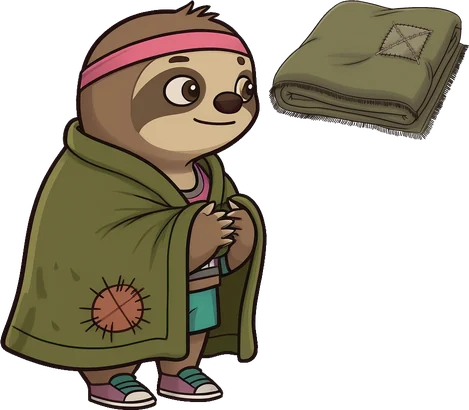
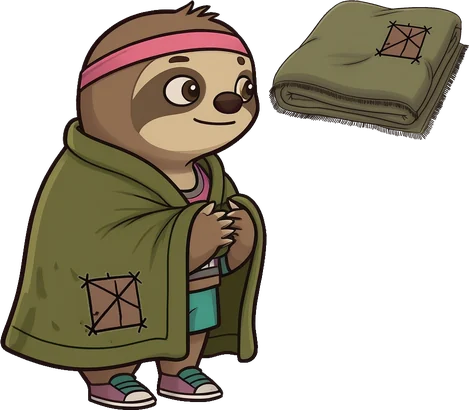
WIP Meeca's stage art: one darned patch on both blankets, soldier eye-stripe edit spec
Claude-Session: https://claude.ai/code/session_019iachLiuwNTAZUBSJWUmR3

Changed region(s): [[0.1493, 0.6439, 0.3284, 0.8488], [0.806, 0.0585, 0.9254, 0.1756]]

diff --git a/tools/art/w5/pack_blanket.py b/tools/art/w5/pack_blanket.py
@@ -2,7 +2,12 @@
 patch (folded, a prop), and Meeca with it round her shoulders, from model-free on-model edits (tools/art/w5/make_pell_specs.py).
 Writes src/assets/characters/meeca-blanket.webp + src/game/meecaBlanketData.ts. Not used by any scene yet.
 
-    python3 -I tools/art/w5/pack_blanket.py <blanket edit.png> <meeca edit.png>
+    python3 -I tools/art/w5/pack_blanket.py <blanket edit.png> <meeca edit.png> [<pell offer edit.png> '<json fix>' <work dir>]
+
+The fix gives both blankets the one patch on Pell's blanket in his offer edit (the edits drew three different patches): the edit's own
+patch is painted out and Pell's square brown patch with its crooked X stitches is warped over the spot.
+  {"src_box": [x0, y0, x1, y1], "src_quad": [4 corners of Pell's patch], "prop_quad": [4 corners of the prop's patch], "prop_grow": px,
+   "meeca_disc": [cx, cy, r, y max], "meeca_side": px, "meeca_deg": deg}   (picture px of each edit, corners clockwise from top left)
 
 Each picture is keyed off its own background (w5lib.sheet_mask, as pack_poses.py does), its ground shadow cut (w5gpu.clean_start's
 rule, done here on the cut-out: a dark neutral fringe at the bottom), and sized: Meeca to her standard sheet's standing height
@@ -48,6 +53,97 @@ def cut(path):
     return Image.fromarray(np.dstack([a[y0:y1, x0:x1], alpha[y0:y1, x0:x1] * 255]).astype(np.uint8), 'RGBA')
 
 
+def persp(dst, src):
+    """PIL PERSPECTIVE coefficients mapping output points dst[i] to input points src[i] (four of each)"""
+    A, b = [], []
+    for (x, y), (u, v) in zip(dst, src):
+        A += [[x, y, 1, 0, 0, 0, -u * x, -u * y], [0, 0, 0, x, y, 1, -v * x, -v * y]]
+        b += [u, v]
+    return np.linalg.solve(np.array(A, float), np.array(b, float))
+
+
+def inpaint(a, region, iters=400):
+    """fill region with the colours around it, smoothly (repeated averaging of the four neighbours)"""
+    ys, xs = np.nonzero(region)
+    y0, y1, x0, x1 = max(0, ys.min() - 2), ys.max() + 3, max(0, xs.min() - 2), xs.max() + 3
+    sub, m = a[y0:y1, x0:x1].copy(), region[y0:y1, x0:x1]
+    ring = ndimage.binary_dilation(m, iterations=3) & ~m
+    sub[m] = sub[ring].mean(0)
+    for _ in range(iters):
+        avg = (np.roll(sub, 1, 0) + np.roll(sub, -1, 0) + np.roll(sub, 1, 1) + np.roll(sub, -1, 1)) / 4
+        sub[m] = avg[m]
+    a[y0:y1, x0:x1] = sub
+
+
+def pell_patch(path, box, quad):
+    """the darned patch on Pell's blanket in his offer edit: the brown square, its outline and its crooked stitches (everything in box
+    that is not the blanket's olive), as RGBA, with its four corners (quad, picture px) to warp it by"""
+    a = np.asarray(Image.open(path).convert('RGB')).astype(np.float32)
+    x0, y0, x1, y1 = box
+    sub = a[y0:y1, x0:x1]
+    edge = np.concatenate([sub[:3].reshape(-1, 3), sub[-3:].reshape(-1, 3), sub[:, :3].reshape(-1, 3), sub[:, -3:].reshape(-1, 3)])
+    olive = np.median(edge, 0)
+    m = np.sqrt(((sub - olive) ** 2).sum(-1)) > 28
+    lab, n = ndimage.label(m)
+    sizes = ndimage.sum(m, lab, range(1, n + 1))
+    m = np.isin(lab, 1 + np.flatnonzero(sizes > sizes.max() * 0.01))
+    al = ndimage.gaussian_filter(ndimage.binary_dilation(m, iterations=1).astype(float), 0.7)
+    return Image.fromarray(np.dstack([sub, al * 255]).clip(0, 255).astype(np.uint8), 'RGBA'), [(u - x0, v - y0) for u, v in quad]
+
+
+def repatch(path, region, quad, patch):
+    """paint out the edit's own patch (region: a function of the picture array giving the pixels to fill) and lay Pell's patch over the
+    spot, warped onto quad (its four corners, picture px, clockwise from top left)"""
+    im = Image.open(path).convert('RGB')
+    a = np.asarray(im).astype(np.float32)
+    inpaint(a, region(a))
+    base = Image.fromarray(a.clip(0, 255).astype(np.uint8)).convert('RGBA')
+    p, src = patch
+    warped = p.transform(base.size, Image.PERSPECTIVE, tuple(persp(quad, src)), Image.BICUBIC)
+    base.alpha_composite(warped)
+    return base.convert('RGB')
+
+
+def disc_region(cx, cy, r, ymax):
+    """Meeca's take: a round orange patch with stitches sticking out of it, above the blanket's hem"""
+    def f(a):
+        yy, xx = np.mgrid[0:a.shape[0], 0:a.shape[1]]
+        near = ((xx - cx) ** 2 + (yy - cy) ** 2 < r * r) & (yy < ymax)
+        lum = a.mean(-1)
+        hit = near & (((a[..., 0] - a[..., 1]) > 30) | (lum < 100))
+        return ndimage.binary_dilation(hit, iterations=4) & near
+    return f
+
+
+def quad_region(quad, grow):
+    """the prop's take: the stitched patch inside quad, its stitches and thread a little past it (grow px)"""
+    def f(a):
+        from PIL import ImageDraw
+        mk = Image.new('L', (a.shape[1], a.shape[0]), 0)
+        ImageDraw.Draw(mk).polygon([tuple(q) for q in quad], fill=255)
+        return ndimage.binary_dilation(np.asarray(mk) > 0, iterations=grow)
+    return f
+
+
+def square(cx, cy, side, deg):
+    t = np.radians(deg)
+    c, s = np.cos(t), np.sin(t)
+    return [(cx + c * dx - s * dy, cy + s * dx + c * dy) for dx, dy in ((-side / 2, -side / 2), (side / 2, -side / 2), (side / 2, side / 2), (-side / 2, side / 2))]
+
+
+# one patch on both blankets: the brown square with crooked X stitches from Pell's offer (picture px of each edit; 2026-10-26 takes:
+# w5p-offer-1, w5p-blanket-1, w5m-blanket-3)
+FIX = json.loads(sys.argv[4]) if len(sys.argv) > 4 else None
+if FIX:
+    patch = pell_patch(sys.argv[3], FIX['src_box'], FIX['src_quad'])
+    pb = FIX['prop_quad']
+    Path('/tmp').exists()
+    fixed_b = repatch(sys.argv[1], quad_region(pb, FIX.get('prop_grow', 14)), pb, patch)
+    cx, cy, r, ymax = FIX['meeca_disc']
+    fixed_m = repatch(sys.argv[2], disc_region(cx, cy, r, ymax), square(cx, cy, FIX['meeca_side'], FIX.get('meeca_deg', -6)), patch)
+    tmp = Path(sys.argv[5] if len(sys.argv) > 5 else '.')
+    fixed_b.save(tmp / 'blanket-repatched.png'); fixed_m.save(tmp / 'meeca-repatched.png')
+    sys.argv[1], sys.argv[2] = str(tmp / 'blanket-repatched.png'), str(tmp / 'meeca-repatched.png')
 blanket, meeca = cut(sys.argv[1]), cut(sys.argv[2])
 blanket = blanket.resize((BLANKET_W, round(blanket.height * BLANKET_W / blanket.width)), Image.LANCZOS)
 meeca = meeca.resize((round(meeca.width * UP * STAND_H / meeca.height), round(UP * STAND_H)), Image.LANCZOS)

diff --git a/tools/art/w5/make_pell_specs.py b/tools/art/w5/make_pell_specs.py
@@ -118,5 +118,31 @@ def round2():
     print(len(ed), 'edits', len(cl), 'clips')
 
 
+FACE = ('Change his face: instead of a dark mask across his eyes, he has a plain, friendly sloth face with light cream fur round his '
+        'eyes and only a thin, soft brown stripe running from each eye back toward his ear, like a real three-toed sloth, his eyes clearly '
+        'visible. ')
+
+
+def round3():
+    """soldier A's stand redrawn from his walk (the two-picture edit of round 2 gave him Pell's peaked cap), and both soldiers' eye
+    stripes toned down so they read as plain sloths, not bandit masks (coordinator, 2026-10-26)"""
+    same = {'a': 'the same dark chocolate-brown fur, the same soft olive cap, the same plain olive tunic and trousers',
+            'b': 'the same reddish cinnamon-brown fur, the same soft olive cap, the same plain olive tunic and trousers, the same rolled grey '
+                 'blanket on his back'}
+    ed = []
+    for s in (1, 2):
+        for v, pose, src, what in (('a', 'walk', 'w5sa-walk-1', 'The same walking pose, the same lantern down at his side.'),
+                                   ('a', 'stand', 'w5sa-walk-1', 'Now he has stopped walking and stands still, feet together, holding the '
+                                                                 'same lantern up in front of him in one paw, a plain stern face.'),
+                                   ('b', 'walk', 'w5sb-walk-1', 'The same walking pose, the same lantern down at his side.'),
+                                   ('b', 'stand', 'w5sb-stand-1', 'The same standing pose, the same lantern held up.')):
+            ed.append(edit(f'w5s{v}-{pose}3-{s}', [f'stills/{src}.png'],
+                           'The same sloth soldier as in the picture, ' + same[v] + ', ' + KEEP + FACE + what +
+                           ' Side view facing right, whole body in frame. One sloth only.', s))
+    (G / 'spec-w5pell3-edits.json').write_text(json.dumps({'tag': 'w5pell3', 'script': 'tools/art/w5/w5gpu.py', 'flavor': 'rtx-pro-6000',
+                                                            'edits': ed}))
+    print(len(ed), 'edits')
+
+
 if __name__ == '__main__':
-    round2() if '--round2' in sys.argv else round1()
+    {'--round2': round2, '--round3': round3}.get(next((a for a in sys.argv if a.startswith('--')), ''), round1)()
